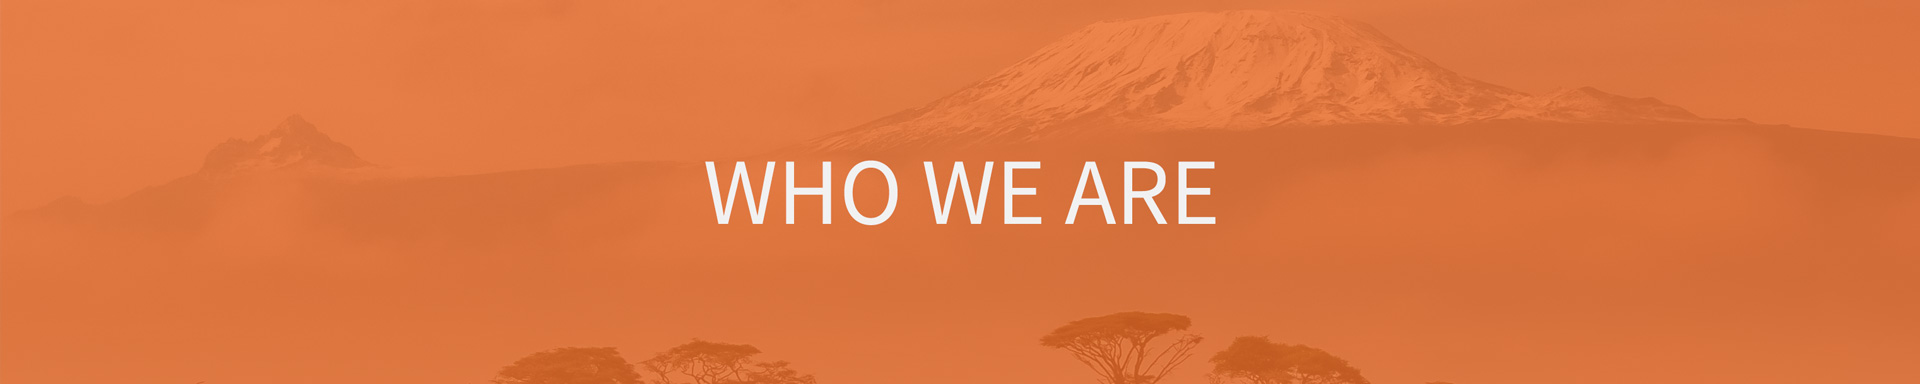
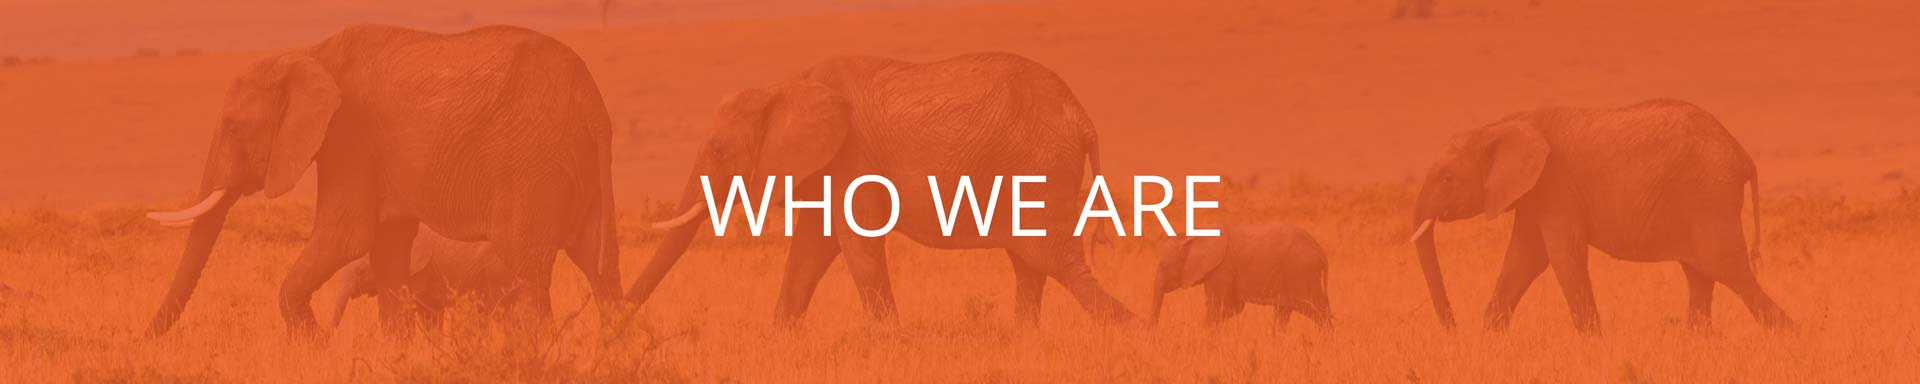
Finish headers

diff --git a/css/responsive.css b/css/responsive.css
@@ -52,7 +52,7 @@
         text-align: center;
     }
 
-    .grid-text > div {
+    .grid-text>div {
         margin: 0 auto !important;
     }
 
@@ -60,15 +60,35 @@
         grid-template: 150px 5fr 3fr / 1fr;
     }
 
-    .contact-section .section-grid .grid-heading{
+    .contact-grid {
+        padding: 5% 5% 10% 5%;
+    }
+
+    .main-section div img {
+        width: 55%;
+    }
+
+    .about-section .grid-heading {
+        background-image: url("../assets/images/sections/about-section-horizontal.jpg");
+    
+    }
+
+    
+    .what-section .grid-heading {
+        background-image: url("../assets/images/sections/what-section-horizontal.jpg");
+    }
+    
+    .clients-section .grid-heading {
+        background-image: url("../assets/images/sections/clients-section-horizontal.jpg");
+    }
+
+    .contact-section .section-grid .grid-heading {
         display: block;
         background-image: url("../assets/images/sections/contact-us.jpg");
 
     }
+    
 
-    .contact-grid {
-        padding: 5%;
-    }
 }
 
 
@@ -79,7 +99,8 @@
         padding: 20px 0 50px 0;
     }
 
-    .contact-form>div:nth-child(3), .contact-form .submit-button {
+    .contact-form>div:nth-child(3),
+    .contact-form .submit-button {
         grid-column: 1/2 !important;
     }
 
@@ -91,5 +112,9 @@
 
     .contact-info>div>div {
         justify-content: center;
+    }
+
+    .main-section div img {
+        width: 70%;
     }
 }
